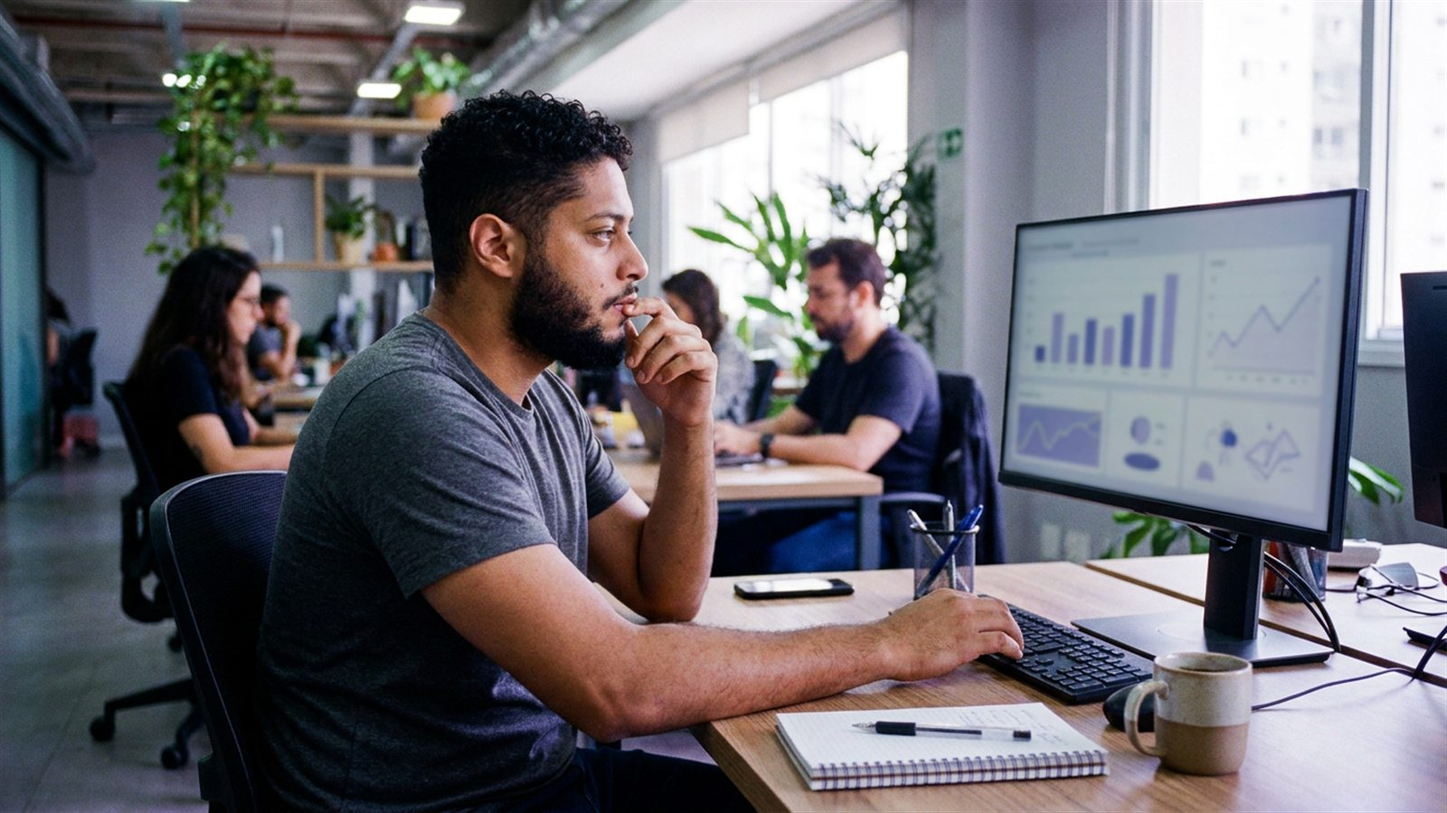
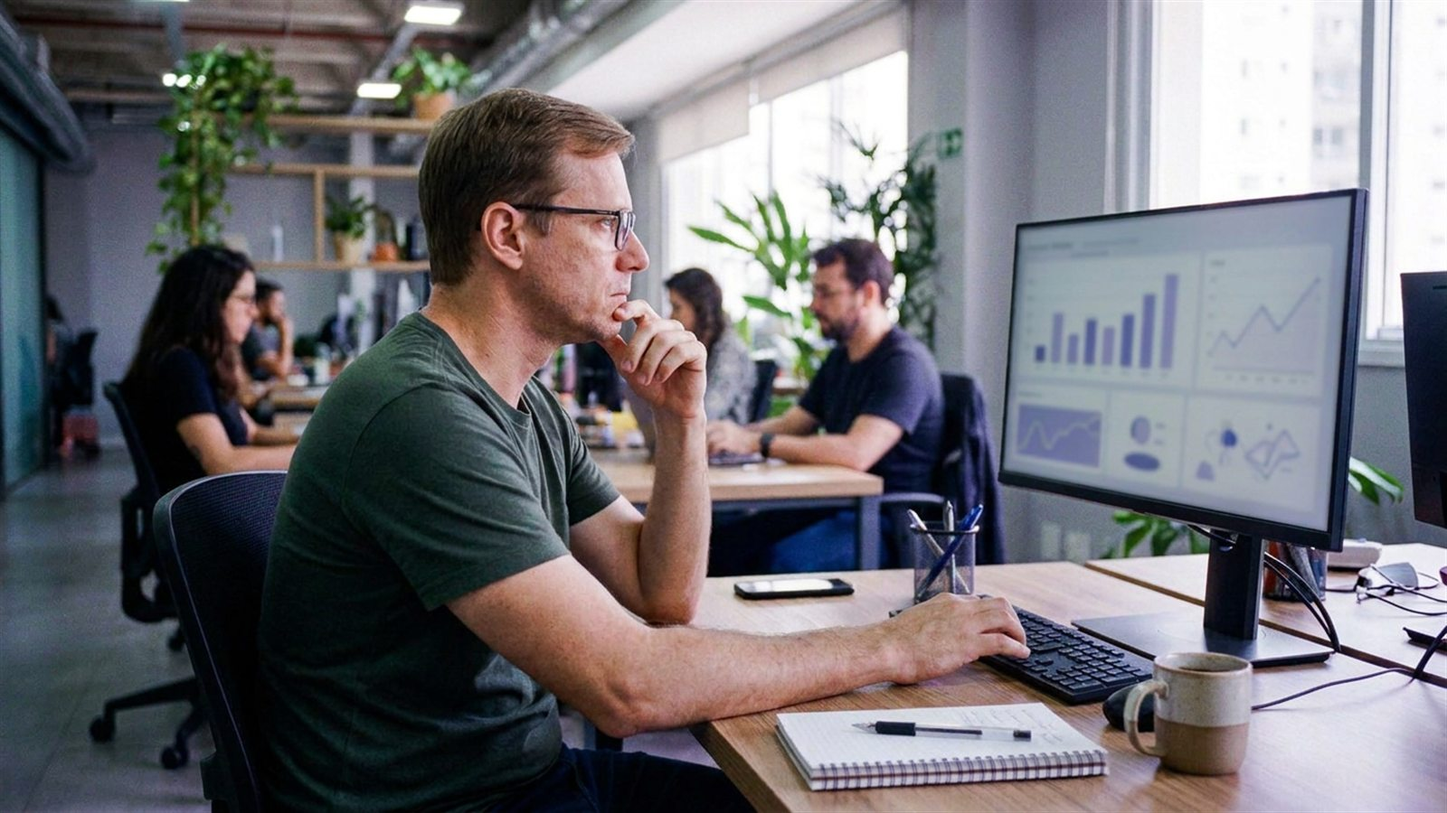
Capas e fotos de cena com pessoas ficticias; Membership: +50 cursos em uma unica assinatura

diff --git a/membership.html b/membership.html
@@ -65,7 +65,7 @@
     <div class="m-photo" role="img" aria-label="Aluna da PM3 estudando com notebook em um coworking"><span class="tag">Estude no seu ritmo</span></div>
     <div class="m-tile">
       <span class="ic ic-tl" style="left:0;top:0;--c:#000;--r:40px" aria-hidden="true"></span>
-      <div class="big">10<small>formações + 40 sprints<br>em uma assinatura</small></div>
+      <div class="big">+50<small>cursos em uma<br>única assinatura</small></div>
       <p>Seis áreas, do primeiro cargo em produto à liderança, com IA aplicada.</p>
     </div>
   </div>
@@ -105,16 +105,16 @@
       <button class="chip" aria-pressed="false" data-f="design">Design <small>1</small></button>
     </div>
     <div class="f-track" id="fgrid" role="region" aria-label="Formações" tabindex="0">
-      <a class="f-card feature" data-a="produto" href="formacao-product-manager.html"><div class="f-vis" style="background-image:url('assets/capas/product-manager-800.jpg?v=2')" aria-hidden="true"></div><div class="f-body"><div class="top"><span class="tag tag-area">Gestão de produtos</span><span class="tag tag-yellow">Comece aqui</span></div><h3>Product Manager</h3><p>Para quem está entrando em produto ou quer consolidar estratégia, discovery e execução.</p><ul class="f-facts"><li><svg viewBox="0 0 16 16" fill="none" stroke="currentColor" stroke-width="1.6" aria-hidden="true"><circle cx="8" cy="8" r="6.2"/><path d="M8 4.6V8l2.4 1.6"/></svg>37h</li><li><svg viewBox="0 0 16 16" fill="none" stroke="currentColor" stroke-width="1.6" aria-hidden="true"><path d="M8 1.8 14.2 5 8 8.2 1.8 5z"/><path d="m1.8 8 6.2 3.2L14.2 8"/><path d="m1.8 11 6.2 3.2 6.2-3.2"/></svg>6 módulos</li><li><svg viewBox="0 0 16 16" fill="none" stroke="currentColor" stroke-width="1.6" aria-hidden="true"><circle cx="8" cy="6.2" r="4.2"/><path d="m5.6 9.6-1.1 4.8L8 12.8l3.5 1.6-1.1-4.8"/></svg>Certificado</li></ul><div class="meta"><span>Ver formação</span><span class="go"><svg viewBox="0 0 16 16" fill="none" stroke="currentColor" stroke-width="2"><path d="M2 8h11M9 4l4 4-4 4"/></svg></span></div></div></a>
-      <a class="f-card" data-a="produto" href="#"><div class="f-vis" style="background-image:url('assets/capas/product-discovery-800.jpg?v=2')" aria-hidden="true"></div><div class="f-body"><div class="top"><span class="tag tag-area">Gestão de produtos</span></div><h3>Product Discovery</h3><p>Validar hipóteses e reduzir o risco antes de construir.</p><ul class="f-facts"><li><svg viewBox="0 0 16 16" fill="none" stroke="currentColor" stroke-width="1.6" aria-hidden="true"><circle cx="8" cy="8" r="6.2"/><path d="M8 4.6V8l2.4 1.6"/></svg>26h</li><li><svg viewBox="0 0 16 16" fill="none" stroke="currentColor" stroke-width="1.6" aria-hidden="true"><path d="M8 1.8 14.2 5 8 8.2 1.8 5z"/><path d="m1.8 8 6.2 3.2L14.2 8"/><path d="m1.8 11 6.2 3.2 6.2-3.2"/></svg>5 módulos</li><li><svg viewBox="0 0 16 16" fill="none" stroke="currentColor" stroke-width="1.6" aria-hidden="true"><circle cx="8" cy="6.2" r="4.2"/><path d="m5.6 9.6-1.1 4.8L8 12.8l3.5 1.6-1.1-4.8"/></svg>Certificado</li></ul><div class="meta"><span>Ver formação</span><span class="go"><svg viewBox="0 0 16 16" fill="none" stroke="currentColor" stroke-width="2"><path d="M2 8h11M9 4l4 4-4 4"/></svg></span></div></div></a>
-      <a class="f-card" data-a="produto" href="#"><div class="f-vis" style="background-image:url('assets/capas/product-leadership-800.jpg?v=2')" aria-hidden="true"></div><div class="f-body"><div class="top"><span class="tag tag-area">Liderança</span></div><h3>Product Leadership</h3><p>Para PMs sêniores que assumem pessoas e decisões de alto nível.</p><ul class="f-facts"><li><svg viewBox="0 0 16 16" fill="none" stroke="currentColor" stroke-width="1.6" aria-hidden="true"><circle cx="8" cy="8" r="6.2"/><path d="M8 4.6V8l2.4 1.6"/></svg>29h</li><li><svg viewBox="0 0 16 16" fill="none" stroke="currentColor" stroke-width="1.6" aria-hidden="true"><path d="M8 1.8 14.2 5 8 8.2 1.8 5z"/><path d="m1.8 8 6.2 3.2L14.2 8"/><path d="m1.8 11 6.2 3.2 6.2-3.2"/></svg>5 módulos</li><li><svg viewBox="0 0 16 16" fill="none" stroke="currentColor" stroke-width="1.6" aria-hidden="true"><circle cx="8" cy="6.2" r="4.2"/><path d="m5.6 9.6-1.1 4.8L8 12.8l3.5 1.6-1.1-4.8"/></svg>Certificado</li></ul><div class="meta"><span>Ver formação</span><span class="go"><svg viewBox="0 0 16 16" fill="none" stroke="currentColor" stroke-width="2"><path d="M2 8h11M9 4l4 4-4 4"/></svg></span></div></div></a>
-      <a class="f-card" data-a="ia" href="#"><div class="f-vis" style="background-image:url('assets/capas/ai-product-builder-800.jpg?v=2')" aria-hidden="true"></div><div class="f-body"><div class="top"><span class="tag tag-area">IA</span></div><h3>AI Product Builder</h3><p>Sair de usuário de IA para criador: automações, agentes e aplicações na prática.</p><ul class="f-facts"><li><svg viewBox="0 0 16 16" fill="none" stroke="currentColor" stroke-width="1.6" aria-hidden="true"><path d="M8 1.8 14.2 5 8 8.2 1.8 5z"/><path d="m1.8 8 6.2 3.2L14.2 8"/><path d="m1.8 11 6.2 3.2 6.2-3.2"/></svg>6 módulos</li><li><svg viewBox="0 0 16 16" fill="none" stroke="currentColor" stroke-width="1.6" aria-hidden="true"><circle cx="8" cy="6.2" r="4.2"/><path d="m5.6 9.6-1.1 4.8L8 12.8l3.5 1.6-1.1-4.8"/></svg>Certificado</li></ul><div class="meta"><span>Ver formação</span><span class="go"><svg viewBox="0 0 16 16" fill="none" stroke="currentColor" stroke-width="2"><path d="M2 8h11M9 4l4 4-4 4"/></svg></span></div></div></a>
-      <a class="f-card" data-a="ia" href="#"><div class="f-vis" style="background-image:url('assets/capas/ai-product-specialist-800.jpg?v=2')" aria-hidden="true"></div><div class="f-body"><div class="top"><span class="tag tag-area">IA</span></div><h3>AI Product Specialist</h3><p>Aplicar IA de forma estratégica na construção e priorização de produto.</p><ul class="f-facts"><li><svg viewBox="0 0 16 16" fill="none" stroke="currentColor" stroke-width="1.6" aria-hidden="true"><circle cx="8" cy="8" r="6.2"/><path d="M8 4.6V8l2.4 1.6"/></svg>40h</li><li><svg viewBox="0 0 16 16" fill="none" stroke="currentColor" stroke-width="1.6" aria-hidden="true"><path d="M8 1.8 14.2 5 8 8.2 1.8 5z"/><path d="m1.8 8 6.2 3.2L14.2 8"/><path d="m1.8 11 6.2 3.2 6.2-3.2"/></svg>5 módulos</li><li><svg viewBox="0 0 16 16" fill="none" stroke="currentColor" stroke-width="1.6" aria-hidden="true"><circle cx="8" cy="6.2" r="4.2"/><path d="m5.6 9.6-1.1 4.8L8 12.8l3.5 1.6-1.1-4.8"/></svg>Certificado</li></ul><div class="meta"><span>Ver formação</span><span class="go"><svg viewBox="0 0 16 16" fill="none" stroke="currentColor" stroke-width="2"><path d="M2 8h11M9 4l4 4-4 4"/></svg></span></div></div></a>
-      <a class="f-card" data-a="dados" href="#"><div class="f-vis" style="background-image:url('assets/capas/product-analytics-800.jpg?v=2')" aria-hidden="true"></div><div class="f-body"><div class="top"><span class="tag tag-area">Dados</span></div><h3>Product Analytics</h3><p>Métricas certas, experimentos e dados para decidir com segurança.</p><ul class="f-facts"><li><svg viewBox="0 0 16 16" fill="none" stroke="currentColor" stroke-width="1.6" aria-hidden="true"><circle cx="8" cy="8" r="6.2"/><path d="M8 4.6V8l2.4 1.6"/></svg>21h</li><li><svg viewBox="0 0 16 16" fill="none" stroke="currentColor" stroke-width="1.6" aria-hidden="true"><path d="M8 1.8 14.2 5 8 8.2 1.8 5z"/><path d="m1.8 8 6.2 3.2L14.2 8"/><path d="m1.8 11 6.2 3.2 6.2-3.2"/></svg>6 módulos</li><li><svg viewBox="0 0 16 16" fill="none" stroke="currentColor" stroke-width="1.6" aria-hidden="true"><circle cx="8" cy="6.2" r="4.2"/><path d="m5.6 9.6-1.1 4.8L8 12.8l3.5 1.6-1.1-4.8"/></svg>Certificado</li></ul><div class="meta"><span>Ver formação</span><span class="go"><svg viewBox="0 0 16 16" fill="none" stroke="currentColor" stroke-width="2"><path d="M2 8h11M9 4l4 4-4 4"/></svg></span></div></div></a>
-      <a class="f-card" data-a="dados" href="#"><div class="f-vis" style="background-image:url('assets/capas/analista-de-dados-800.jpg?v=2')" aria-hidden="true"></div><div class="f-body"><div class="top"><span class="tag tag-area">Dados</span></div><h3>Analista de Dados</h3><p>Para quem quer migrar para dados ou estruturar a base técnica.</p><ul class="f-facts"><li><svg viewBox="0 0 16 16" fill="none" stroke="currentColor" stroke-width="1.6" aria-hidden="true"><circle cx="8" cy="8" r="6.2"/><path d="M8 4.6V8l2.4 1.6"/></svg>74h</li><li><svg viewBox="0 0 16 16" fill="none" stroke="currentColor" stroke-width="1.6" aria-hidden="true"><path d="M8 1.8 14.2 5 8 8.2 1.8 5z"/><path d="m1.8 8 6.2 3.2L14.2 8"/><path d="m1.8 11 6.2 3.2 6.2-3.2"/></svg>6 módulos</li><li><svg viewBox="0 0 16 16" fill="none" stroke="currentColor" stroke-width="1.6" aria-hidden="true"><circle cx="8" cy="6.2" r="4.2"/><path d="m5.6 9.6-1.1 4.8L8 12.8l3.5 1.6-1.1-4.8"/></svg>Certificado</li></ul><div class="meta"><span>Ver formação</span><span class="go"><svg viewBox="0 0 16 16" fill="none" stroke="currentColor" stroke-width="2"><path d="M2 8h11M9 4l4 4-4 4"/></svg></span></div></div></a>
-      <a class="f-card" data-a="marketing" href="#"><div class="f-vis" style="background-image:url('assets/capas/product-growth-800.jpg?v=2')" aria-hidden="true"></div><div class="f-body"><div class="top"><span class="tag tag-area">Marketing</span></div><h3>Product Growth</h3><p>As alavancas de aquisição, ativação, retenção e monetização.</p><ul class="f-facts"><li><svg viewBox="0 0 16 16" fill="none" stroke="currentColor" stroke-width="1.6" aria-hidden="true"><circle cx="8" cy="8" r="6.2"/><path d="M8 4.6V8l2.4 1.6"/></svg>44h</li><li><svg viewBox="0 0 16 16" fill="none" stroke="currentColor" stroke-width="1.6" aria-hidden="true"><path d="M8 1.8 14.2 5 8 8.2 1.8 5z"/><path d="m1.8 8 6.2 3.2L14.2 8"/><path d="m1.8 11 6.2 3.2 6.2-3.2"/></svg>7 módulos</li><li><svg viewBox="0 0 16 16" fill="none" stroke="currentColor" stroke-width="1.6" aria-hidden="true"><circle cx="8" cy="6.2" r="4.2"/><path d="m5.6 9.6-1.1 4.8L8 12.8l3.5 1.6-1.1-4.8"/></svg>Certificado</li></ul><div class="meta"><span>Ver formação</span><span class="go"><svg viewBox="0 0 16 16" fill="none" stroke="currentColor" stroke-width="2"><path d="M2 8h11M9 4l4 4-4 4"/></svg></span></div></div></a>
-      <a class="f-card" data-a="marketing" href="#"><div class="f-vis" style="background-image:url('assets/capas/product-marketing-800.jpg?v=2')" aria-hidden="true"></div><div class="f-body"><div class="top"><span class="tag tag-area">Marketing</span></div><h3>Product Marketing</h3><p>Posicionamento e go-to-market na interface entre produto e marketing.</p><ul class="f-facts"><li><svg viewBox="0 0 16 16" fill="none" stroke="currentColor" stroke-width="1.6" aria-hidden="true"><circle cx="8" cy="8" r="6.2"/><path d="M8 4.6V8l2.4 1.6"/></svg>36h</li><li><svg viewBox="0 0 16 16" fill="none" stroke="currentColor" stroke-width="1.6" aria-hidden="true"><path d="M8 1.8 14.2 5 8 8.2 1.8 5z"/><path d="m1.8 8 6.2 3.2L14.2 8"/><path d="m1.8 11 6.2 3.2 6.2-3.2"/></svg>5 módulos</li><li><svg viewBox="0 0 16 16" fill="none" stroke="currentColor" stroke-width="1.6" aria-hidden="true"><circle cx="8" cy="6.2" r="4.2"/><path d="m5.6 9.6-1.1 4.8L8 12.8l3.5 1.6-1.1-4.8"/></svg>Certificado</li></ul><div class="meta"><span>Ver formação</span><span class="go"><svg viewBox="0 0 16 16" fill="none" stroke="currentColor" stroke-width="2"><path d="M2 8h11M9 4l4 4-4 4"/></svg></span></div></div></a>
-      <a class="f-card" data-a="design" href="#"><div class="f-vis" style="background-image:url('assets/capas/product-design-800.jpg?v=2')" aria-hidden="true"></div><div class="f-body"><div class="top"><span class="tag tag-area">Design</span></div><h3>Product Design</h3><p>Da pesquisa à interface, para designers e profissionais de produto.</p><ul class="f-facts"><li><svg viewBox="0 0 16 16" fill="none" stroke="currentColor" stroke-width="1.6" aria-hidden="true"><circle cx="8" cy="8" r="6.2"/><path d="M8 4.6V8l2.4 1.6"/></svg>79h</li><li><svg viewBox="0 0 16 16" fill="none" stroke="currentColor" stroke-width="1.6" aria-hidden="true"><path d="M8 1.8 14.2 5 8 8.2 1.8 5z"/><path d="m1.8 8 6.2 3.2L14.2 8"/><path d="m1.8 11 6.2 3.2 6.2-3.2"/></svg>6 módulos</li><li><svg viewBox="0 0 16 16" fill="none" stroke="currentColor" stroke-width="1.6" aria-hidden="true"><circle cx="8" cy="6.2" r="4.2"/><path d="m5.6 9.6-1.1 4.8L8 12.8l3.5 1.6-1.1-4.8"/></svg>Certificado</li></ul><div class="meta"><span>Ver formação</span><span class="go"><svg viewBox="0 0 16 16" fill="none" stroke="currentColor" stroke-width="2"><path d="M2 8h11M9 4l4 4-4 4"/></svg></span></div></div></a>
+      <a class="f-card feature" data-a="produto" href="formacao-product-manager.html"><div class="f-vis" style="background-image:url('assets/capas/product-manager-800.jpg?v=3')" aria-hidden="true"></div><div class="f-body"><div class="top"><span class="tag tag-area">Gestão de produtos</span><span class="tag tag-yellow">Comece aqui</span></div><h3>Product Manager</h3><p>Para quem está entrando em produto ou quer consolidar estratégia, discovery e execução.</p><ul class="f-facts"><li><svg viewBox="0 0 16 16" fill="none" stroke="currentColor" stroke-width="1.6" aria-hidden="true"><circle cx="8" cy="8" r="6.2"/><path d="M8 4.6V8l2.4 1.6"/></svg>37h</li><li><svg viewBox="0 0 16 16" fill="none" stroke="currentColor" stroke-width="1.6" aria-hidden="true"><path d="M8 1.8 14.2 5 8 8.2 1.8 5z"/><path d="m1.8 8 6.2 3.2L14.2 8"/><path d="m1.8 11 6.2 3.2 6.2-3.2"/></svg>6 módulos</li><li><svg viewBox="0 0 16 16" fill="none" stroke="currentColor" stroke-width="1.6" aria-hidden="true"><circle cx="8" cy="6.2" r="4.2"/><path d="m5.6 9.6-1.1 4.8L8 12.8l3.5 1.6-1.1-4.8"/></svg>Certificado</li></ul><div class="meta"><span>Ver formação</span><span class="go"><svg viewBox="0 0 16 16" fill="none" stroke="currentColor" stroke-width="2"><path d="M2 8h11M9 4l4 4-4 4"/></svg></span></div></div></a>
+      <a class="f-card" data-a="produto" href="#"><div class="f-vis" style="background-image:url('assets/capas/product-discovery-800.jpg?v=3')" aria-hidden="true"></div><div class="f-body"><div class="top"><span class="tag tag-area">Gestão de produtos</span></div><h3>Product Discovery</h3><p>Validar hipóteses e reduzir o risco antes de construir.</p><ul class="f-facts"><li><svg viewBox="0 0 16 16" fill="none" stroke="currentColor" stroke-width="1.6" aria-hidden="true"><circle cx="8" cy="8" r="6.2"/><path d="M8 4.6V8l2.4 1.6"/></svg>26h</li><li><svg viewBox="0 0 16 16" fill="none" stroke="currentColor" stroke-width="1.6" aria-hidden="true"><path d="M8 1.8 14.2 5 8 8.2 1.8 5z"/><path d="m1.8 8 6.2 3.2L14.2 8"/><path d="m1.8 11 6.2 3.2 6.2-3.2"/></svg>5 módulos</li><li><svg viewBox="0 0 16 16" fill="none" stroke="currentColor" stroke-width="1.6" aria-hidden="true"><circle cx="8" cy="6.2" r="4.2"/><path d="m5.6 9.6-1.1 4.8L8 12.8l3.5 1.6-1.1-4.8"/></svg>Certificado</li></ul><div class="meta"><span>Ver formação</span><span class="go"><svg viewBox="0 0 16 16" fill="none" stroke="currentColor" stroke-width="2"><path d="M2 8h11M9 4l4 4-4 4"/></svg></span></div></div></a>
+      <a class="f-card" data-a="produto" href="#"><div class="f-vis" style="background-image:url('assets/capas/product-leadership-800.jpg?v=3')" aria-hidden="true"></div><div class="f-body"><div class="top"><span class="tag tag-area">Liderança</span></div><h3>Product Leadership</h3><p>Para PMs sêniores que assumem pessoas e decisões de alto nível.</p><ul class="f-facts"><li><svg viewBox="0 0 16 16" fill="none" stroke="currentColor" stroke-width="1.6" aria-hidden="true"><circle cx="8" cy="8" r="6.2"/><path d="M8 4.6V8l2.4 1.6"/></svg>29h</li><li><svg viewBox="0 0 16 16" fill="none" stroke="currentColor" stroke-width="1.6" aria-hidden="true"><path d="M8 1.8 14.2 5 8 8.2 1.8 5z"/><path d="m1.8 8 6.2 3.2L14.2 8"/><path d="m1.8 11 6.2 3.2 6.2-3.2"/></svg>5 módulos</li><li><svg viewBox="0 0 16 16" fill="none" stroke="currentColor" stroke-width="1.6" aria-hidden="true"><circle cx="8" cy="6.2" r="4.2"/><path d="m5.6 9.6-1.1 4.8L8 12.8l3.5 1.6-1.1-4.8"/></svg>Certificado</li></ul><div class="meta"><span>Ver formação</span><span class="go"><svg viewBox="0 0 16 16" fill="none" stroke="currentColor" stroke-width="2"><path d="M2 8h11M9 4l4 4-4 4"/></svg></span></div></div></a>
+      <a class="f-card" data-a="ia" href="#"><div class="f-vis" style="background-image:url('assets/capas/ai-product-builder-800.jpg?v=3')" aria-hidden="true"></div><div class="f-body"><div class="top"><span class="tag tag-area">IA</span></div><h3>AI Product Builder</h3><p>Sair de usuário de IA para criador: automações, agentes e aplicações na prática.</p><ul class="f-facts"><li><svg viewBox="0 0 16 16" fill="none" stroke="currentColor" stroke-width="1.6" aria-hidden="true"><path d="M8 1.8 14.2 5 8 8.2 1.8 5z"/><path d="m1.8 8 6.2 3.2L14.2 8"/><path d="m1.8 11 6.2 3.2 6.2-3.2"/></svg>6 módulos</li><li><svg viewBox="0 0 16 16" fill="none" stroke="currentColor" stroke-width="1.6" aria-hidden="true"><circle cx="8" cy="6.2" r="4.2"/><path d="m5.6 9.6-1.1 4.8L8 12.8l3.5 1.6-1.1-4.8"/></svg>Certificado</li></ul><div class="meta"><span>Ver formação</span><span class="go"><svg viewBox="0 0 16 16" fill="none" stroke="currentColor" stroke-width="2"><path d="M2 8h11M9 4l4 4-4 4"/></svg></span></div></div></a>
+      <a class="f-card" data-a="ia" href="#"><div class="f-vis" style="background-image:url('assets/capas/ai-product-specialist-800.jpg?v=3')" aria-hidden="true"></div><div class="f-body"><div class="top"><span class="tag tag-area">IA</span></div><h3>AI Product Specialist</h3><p>Aplicar IA de forma estratégica na construção e priorização de produto.</p><ul class="f-facts"><li><svg viewBox="0 0 16 16" fill="none" stroke="currentColor" stroke-width="1.6" aria-hidden="true"><circle cx="8" cy="8" r="6.2"/><path d="M8 4.6V8l2.4 1.6"/></svg>40h</li><li><svg viewBox="0 0 16 16" fill="none" stroke="currentColor" stroke-width="1.6" aria-hidden="true"><path d="M8 1.8 14.2 5 8 8.2 1.8 5z"/><path d="m1.8 8 6.2 3.2L14.2 8"/><path d="m1.8 11 6.2 3.2 6.2-3.2"/></svg>5 módulos</li><li><svg viewBox="0 0 16 16" fill="none" stroke="currentColor" stroke-width="1.6" aria-hidden="true"><circle cx="8" cy="6.2" r="4.2"/><path d="m5.6 9.6-1.1 4.8L8 12.8l3.5 1.6-1.1-4.8"/></svg>Certificado</li></ul><div class="meta"><span>Ver formação</span><span class="go"><svg viewBox="0 0 16 16" fill="none" stroke="currentColor" stroke-width="2"><path d="M2 8h11M9 4l4 4-4 4"/></svg></span></div></div></a>
+      <a class="f-card" data-a="dados" href="#"><div class="f-vis" style="background-image:url('assets/capas/product-analytics-800.jpg?v=3')" aria-hidden="true"></div><div class="f-body"><div class="top"><span class="tag tag-area">Dados</span></div><h3>Product Analytics</h3><p>Métricas certas, experimentos e dados para decidir com segurança.</p><ul class="f-facts"><li><svg viewBox="0 0 16 16" fill="none" stroke="currentColor" stroke-width="1.6" aria-hidden="true"><circle cx="8" cy="8" r="6.2"/><path d="M8 4.6V8l2.4 1.6"/></svg>21h</li><li><svg viewBox="0 0 16 16" fill="none" stroke="currentColor" stroke-width="1.6" aria-hidden="true"><path d="M8 1.8 14.2 5 8 8.2 1.8 5z"/><path d="m1.8 8 6.2 3.2L14.2 8"/><path d="m1.8 11 6.2 3.2 6.2-3.2"/></svg>6 módulos</li><li><svg viewBox="0 0 16 16" fill="none" stroke="currentColor" stroke-width="1.6" aria-hidden="true"><circle cx="8" cy="6.2" r="4.2"/><path d="m5.6 9.6-1.1 4.8L8 12.8l3.5 1.6-1.1-4.8"/></svg>Certificado</li></ul><div class="meta"><span>Ver formação</span><span class="go"><svg viewBox="0 0 16 16" fill="none" stroke="currentColor" stroke-width="2"><path d="M2 8h11M9 4l4 4-4 4"/></svg></span></div></div></a>
+      <a class="f-card" data-a="dados" href="#"><div class="f-vis" style="background-image:url('assets/capas/analista-de-dados-800.jpg?v=3')" aria-hidden="true"></div><div class="f-body"><div class="top"><span class="tag tag-area">Dados</span></div><h3>Analista de Dados</h3><p>Para quem quer migrar para dados ou estruturar a base técnica.</p><ul class="f-facts"><li><svg viewBox="0 0 16 16" fill="none" stroke="currentColor" stroke-width="1.6" aria-hidden="true"><circle cx="8" cy="8" r="6.2"/><path d="M8 4.6V8l2.4 1.6"/></svg>74h</li><li><svg viewBox="0 0 16 16" fill="none" stroke="currentColor" stroke-width="1.6" aria-hidden="true"><path d="M8 1.8 14.2 5 8 8.2 1.8 5z"/><path d="m1.8 8 6.2 3.2L14.2 8"/><path d="m1.8 11 6.2 3.2 6.2-3.2"/></svg>6 módulos</li><li><svg viewBox="0 0 16 16" fill="none" stroke="currentColor" stroke-width="1.6" aria-hidden="true"><circle cx="8" cy="6.2" r="4.2"/><path d="m5.6 9.6-1.1 4.8L8 12.8l3.5 1.6-1.1-4.8"/></svg>Certificado</li></ul><div class="meta"><span>Ver formação</span><span class="go"><svg viewBox="0 0 16 16" fill="none" stroke="currentColor" stroke-width="2"><path d="M2 8h11M9 4l4 4-4 4"/></svg></span></div></div></a>
+      <a class="f-card" data-a="marketing" href="#"><div class="f-vis" style="background-image:url('assets/capas/product-growth-800.jpg?v=3')" aria-hidden="true"></div><div class="f-body"><div class="top"><span class="tag tag-area">Marketing</span></div><h3>Product Growth</h3><p>As alavancas de aquisição, ativação, retenção e monetização.</p><ul class="f-facts"><li><svg viewBox="0 0 16 16" fill="none" stroke="currentColor" stroke-width="1.6" aria-hidden="true"><circle cx="8" cy="8" r="6.2"/><path d="M8 4.6V8l2.4 1.6"/></svg>44h</li><li><svg viewBox="0 0 16 16" fill="none" stroke="currentColor" stroke-width="1.6" aria-hidden="true"><path d="M8 1.8 14.2 5 8 8.2 1.8 5z"/><path d="m1.8 8 6.2 3.2L14.2 8"/><path d="m1.8 11 6.2 3.2 6.2-3.2"/></svg>7 módulos</li><li><svg viewBox="0 0 16 16" fill="none" stroke="currentColor" stroke-width="1.6" aria-hidden="true"><circle cx="8" cy="6.2" r="4.2"/><path d="m5.6 9.6-1.1 4.8L8 12.8l3.5 1.6-1.1-4.8"/></svg>Certificado</li></ul><div class="meta"><span>Ver formação</span><span class="go"><svg viewBox="0 0 16 16" fill="none" stroke="currentColor" stroke-width="2"><path d="M2 8h11M9 4l4 4-4 4"/></svg></span></div></div></a>
+      <a class="f-card" data-a="marketing" href="#"><div class="f-vis" style="background-image:url('assets/capas/product-marketing-800.jpg?v=3')" aria-hidden="true"></div><div class="f-body"><div class="top"><span class="tag tag-area">Marketing</span></div><h3>Product Marketing</h3><p>Posicionamento e go-to-market na interface entre produto e marketing.</p><ul class="f-facts"><li><svg viewBox="0 0 16 16" fill="none" stroke="currentColor" stroke-width="1.6" aria-hidden="true"><circle cx="8" cy="8" r="6.2"/><path d="M8 4.6V8l2.4 1.6"/></svg>36h</li><li><svg viewBox="0 0 16 16" fill="none" stroke="currentColor" stroke-width="1.6" aria-hidden="true"><path d="M8 1.8 14.2 5 8 8.2 1.8 5z"/><path d="m1.8 8 6.2 3.2L14.2 8"/><path d="m1.8 11 6.2 3.2 6.2-3.2"/></svg>5 módulos</li><li><svg viewBox="0 0 16 16" fill="none" stroke="currentColor" stroke-width="1.6" aria-hidden="true"><circle cx="8" cy="6.2" r="4.2"/><path d="m5.6 9.6-1.1 4.8L8 12.8l3.5 1.6-1.1-4.8"/></svg>Certificado</li></ul><div class="meta"><span>Ver formação</span><span class="go"><svg viewBox="0 0 16 16" fill="none" stroke="currentColor" stroke-width="2"><path d="M2 8h11M9 4l4 4-4 4"/></svg></span></div></div></a>
+      <a class="f-card" data-a="design" href="#"><div class="f-vis" style="background-image:url('assets/capas/product-design-800.jpg?v=3')" aria-hidden="true"></div><div class="f-body"><div class="top"><span class="tag tag-area">Design</span></div><h3>Product Design</h3><p>Da pesquisa à interface, para designers e profissionais de produto.</p><ul class="f-facts"><li><svg viewBox="0 0 16 16" fill="none" stroke="currentColor" stroke-width="1.6" aria-hidden="true"><circle cx="8" cy="8" r="6.2"/><path d="M8 4.6V8l2.4 1.6"/></svg>79h</li><li><svg viewBox="0 0 16 16" fill="none" stroke="currentColor" stroke-width="1.6" aria-hidden="true"><path d="M8 1.8 14.2 5 8 8.2 1.8 5z"/><path d="m1.8 8 6.2 3.2L14.2 8"/><path d="m1.8 11 6.2 3.2 6.2-3.2"/></svg>6 módulos</li><li><svg viewBox="0 0 16 16" fill="none" stroke="currentColor" stroke-width="1.6" aria-hidden="true"><circle cx="8" cy="6.2" r="4.2"/><path d="m5.6 9.6-1.1 4.8L8 12.8l3.5 1.6-1.1-4.8"/></svg>Certificado</li></ul><div class="meta"><span>Ver formação</span><span class="go"><svg viewBox="0 0 16 16" fill="none" stroke="currentColor" stroke-width="2"><path d="M2 8h11M9 4l4 4-4 4"/></svg></span></div></div></a>
     </div>
     <div class="f-nav"><div class="f-btns"><button type="button" data-fc="ant" aria-label="Formações anteriores"><svg viewBox="0 0 16 16" fill="none" stroke="currentColor" stroke-width="1.8" aria-hidden="true"><path d="M14 8H3M7 4 3 8l4 4"/></svg></button><button type="button" data-fc="prox" aria-label="Próximas formações"><svg viewBox="0 0 16 16" fill="none" stroke="currentColor" stroke-width="1.8" aria-hidden="true"><path d="M2 8h11M9 4l4 4-4 4"/></svg></button></div></div>
 
@@ -148,23 +148,23 @@
     </div>
     <div class="trilhas-grid">
       <div class="acc" data-nota="Trilhas montadas a partir do catálogo (coluna 'Complementa' dos sprints). Dão ao visitante um caminho e respondem à pergunta 'por onde começo?'.">
-        <div class="acc-item open" data-img="assets/capas/product-manager-1600.jpg?v=2"><button type="button" aria-expanded="true"><span class="nn">01</span><span class="tt">Entrar em produto</span><span class="pl" aria-hidden="true"></span></button>
+        <div class="acc-item open" data-img="assets/capas/product-manager-1600.jpg?v=3"><button type="button" aria-expanded="true"><span class="nn">01</span><span class="tt">Entrar em produto</span><span class="pl" aria-hidden="true"></span></button>
           <div class="acc-body"><div><div class="in"><p>Para quem vem de outra área ou está no primeiro cargo. Base sólida de estratégia, discovery e execução.</p>
             <ol class="path" style="--n:3"><li><span class="dot">1</span><em>Sprint</em><b>Fundamentos de Gestão de Produtos</b></li><li class="k"><span class="dot">2</span><em>Formação</em><b>Product Manager</b></li><li><span class="dot">3</span><em>Formação</em><b>Product Discovery</b></li></ol></div></div></div></div>
-        <div class="acc-item" data-img="assets/capas/ai-product-builder-1600.jpg?v=2"><button type="button" aria-expanded="false"><span class="nn">02</span><span class="tt">Construir com IA</span><span class="pl" aria-hidden="true"></span></button>
+        <div class="acc-item" data-img="assets/capas/ai-product-builder-1600.jpg?v=3"><button type="button" aria-expanded="false"><span class="nn">02</span><span class="tt">Construir com IA</span><span class="pl" aria-hidden="true"></span></button>
           <div class="acc-body"><div><div class="in"><p>Da estratégia à prática: decidir onde a IA gera valor e construir agentes e automações na prática.</p>
             <ol class="path" style="--n:2"><li class="k"><span class="dot">1</span><em>Formação</em><b>AI Product Specialist</b></li><li class="k"><span class="dot">2</span><em>Formação</em><b>AI Product Builder</b></li></ol></div></div></div></div>
-        <div class="acc-item" data-img="assets/capas/product-analytics-1600.jpg?v=2"><button type="button" aria-expanded="false"><span class="nn">03</span><span class="tt">Decidir com dados</span><span class="pl" aria-hidden="true"></span></button>
+        <div class="acc-item" data-img="assets/capas/product-analytics-1600.jpg?v=3"><button type="button" aria-expanded="false"><span class="nn">03</span><span class="tt">Decidir com dados</span><span class="pl" aria-hidden="true"></span></button>
           <div class="acc-body"><div><div class="in"><p>Métricas, experimentos e análise para sustentar decisões de produto com evidência.</p>
             <ol class="path" style="--n:3"><li><span class="dot">1</span><em>Sprint</em><b>SQL para análise de dados</b></li><li class="k"><span class="dot">2</span><em>Formação</em><b>Product Analytics</b></li><li><span class="dot">3</span><em>Formação</em><b>Analista de Dados</b></li></ol></div></div></div></div>
-        <div class="acc-item" data-img="assets/capas/product-growth-1600.jpg?v=2"><button type="button" aria-expanded="false"><span class="nn">04</span><span class="tt">Fazer o produto crescer</span><span class="pl" aria-hidden="true"></span></button>
+        <div class="acc-item" data-img="assets/capas/product-growth-1600.jpg?v=3"><button type="button" aria-expanded="false"><span class="nn">04</span><span class="tt">Fazer o produto crescer</span><span class="pl" aria-hidden="true"></span></button>
           <div class="acc-body"><div><div class="in"><p>Aquisição, retenção, posicionamento e lançamento: a ponte entre produto e mercado.</p>
             <ol class="path" style="--n:3"><li class="k"><span class="dot">1</span><em>Formação</em><b>Product Growth</b></li><li><span class="dot">2</span><em>Formação</em><b>Product Marketing</b></li><li><span class="dot">3</span><em>Sprint</em><b>Go-to-market</b></li></ol></div></div></div></div>
-        <div class="acc-item" data-img="assets/capas/product-leadership-1600.jpg?v=2"><button type="button" aria-expanded="false"><span class="nn">05</span><span class="tt">Liderar pessoas</span><span class="pl" aria-hidden="true"></span></button>
+        <div class="acc-item" data-img="assets/capas/product-leadership-1600.jpg?v=3"><button type="button" aria-expanded="false"><span class="nn">05</span><span class="tt">Liderar pessoas</span><span class="pl" aria-hidden="true"></span></button>
           <div class="acc-body"><div><div class="in"><p>Para o salto de PM sênior para Lead, Head ou Director.</p>
             <ol class="path" style="--n:3"><li class="k"><span class="dot">1</span><em>Formação</em><b>Product Leadership</b></li><li><span class="dot">2</span><em>Sprint</em><b>Liderança na área de produto</b></li><li><span class="dot">3</span><em>Sprint</em><b>Como dar feedback construtivo</b></li></ol></div></div></div></div>
       </div>
-      <div class="trilhas-art" aria-hidden="true"><span class="ph on" style="background-image:url('assets/capas/product-manager-1600.jpg?v=2')"></span><span class="ph"></span><div class="lbl"><b>Trilha <i id="trN">01</i></b><span id="trT">Entrar em produto</span></div></div>
+      <div class="trilhas-art" aria-hidden="true"><span class="ph on" style="background-image:url('assets/capas/product-manager-1600.jpg?v=3')"></span><span class="ph"></span><div class="lbl"><b>Trilha <i id="trN">01</i></b><span id="trT">Entrar em produto</span></div></div>
     </div>
   </div>
 </section>

diff --git a/assets/css/home.css b/assets/css/home.css
@@ -104,7 +104,7 @@
 
 .t-form{grid-column:3/5;background:#fff;border:1px solid var(--line);flex-direction:row;align-items:stretch;padding:0}
 .t-form .txt{flex:1;padding:clamp(24px,2.6vw,36px);display:flex;flex-direction:column;justify-content:space-between;gap:24px}
-.t-form .pic{width:42%;background:url('../img/foto-mesa-cafe.jpg?v=2') 50% 40%/cover;border-radius:0 var(--r-xl) var(--r-xl) 0;position:relative}
+.t-form .pic{width:42%;background:url('../img/foto-mesa-cafe.jpg?v=4') 50% 40%/cover;border-radius:0 var(--r-xl) var(--r-xl) 0;position:relative}
 .t-form .pic .ic{--c:#fff;left:0;top:0}
 .t-form p{color:#4a4458}
 .t-form .more{color:var(--purple-royal)}
@@ -122,7 +122,7 @@
 .t-pos .seal{display:inline-flex;gap:10px;align-items:center;font-family:var(--display);font-weight:700;font-size:11.5px;letter-spacing:.1em;text-transform:uppercase;color:#fff;background:rgba(0,0,0,.45);backdrop-filter:blur(6px);border:1px solid rgba(255,255,255,.2);padding:8px 12px;border-radius:var(--r-pill);align-self:flex-start}
 
 .t-b2b{grid-column:1/5;background:#000;color:#fff;flex-direction:row;align-items:center;min-height:240px}
-.t-b2b .bg{background-image:linear-gradient(90deg,#000 44%,rgba(0,0,0,0) 66%),url('../img/foto-equipe.jpg?v=3');background-size:auto 100%,58% auto;background-repeat:no-repeat;background-position:0 0,right 30%}
+.t-b2b .bg{background-image:linear-gradient(90deg,#000 44%,rgba(0,0,0,0) 66%),url('../img/foto-equipe.jpg?v=4');background-size:auto 100%,58% auto;background-repeat:no-repeat;background-position:0 0,right 30%}
 .t-b2b .txt{max-width:560px}
 .t-b2b p{color:var(--gray-fog)}
 .t-b2b .num{margin-left:clamp(24px,4vw,64px);margin-right:auto;padding-left:clamp(24px,3vw,40px);border-left:1px solid rgba(255,255,255,.16);font-family:var(--display)}
@@ -267,7 +267,7 @@
   .t-form{flex-direction:column}
   .t-form .pic{width:100%;height:180px;border-radius:0 0 var(--r-xl) var(--r-xl);order:2}
   .t-b2b{flex-direction:column;align-items:flex-start}
-  .t-b2b .bg{background-image:linear-gradient(180deg,rgba(0,0,0,.6),#000 70%),url('../img/foto-equipe.jpg?v=3')}
+  .t-b2b .bg{background-image:linear-gradient(180deg,rgba(0,0,0,.6),#000 70%),url('../img/foto-equipe.jpg?v=4')}
   .t-b2b .num{margin-left:0;text-align:left}
   .quotes{grid-template-columns:1fr}
   .qslot{grid-column:auto}

diff --git a/assets/css/b2b.css b/assets/css/b2b.css
@@ -13,7 +13,7 @@
 .b-hero .lead{margin:24px 0 32px}
 .b-hero .btns{display:flex;gap:12px;flex-wrap:wrap}
 .b-hero .pad{padding-bottom:clamp(48px,6vw,88px)}
-.b-pic{position:relative;align-self:stretch;min-height:calc(520px * var(--s,1));border-radius:var(--r-xl) var(--r-xl) 0 0;background:url('../img/foto-equipe.jpg?v=3') 60% 30%/cover}
+.b-pic{position:relative;align-self:stretch;min-height:calc(520px * var(--s,1));border-radius:var(--r-xl) var(--r-xl) 0 0;background:url('../img/foto-equipe.jpg?v=4') 60% 30%/cover}
 .b-card{position:absolute;left:-40px;bottom:40px;background:#fff;border-radius:var(--r-card);box-shadow:var(--shadow-lg);padding:20px 24px;font-family:var(--display);min-width:220px}
 .b-card b{display:block;font-size:44px;font-weight:800;letter-spacing:-.04em;line-height:1;color:var(--purple-deep)}
 .b-card span{font-size:13.5px;color:var(--muted)}

diff --git a/blog.html b/blog.html
@@ -62,7 +62,7 @@
 <!-- 2 · DESTAQUES -->
 <section class="section" aria-label="Destaques">
   <div class="wrap feat">
-    <a class="post-big reveal" href="#"><div class="bg" style="background-image:url('assets/img/foto-equipe.jpg?v=3')"></div>
+    <a class="post-big reveal" href="#"><div class="bg" style="background-image:url('assets/img/foto-equipe.jpg?v=4')"></div>
       <span class="tag tag-yellow" style="align-self:flex-start">Eventos</span>
       <h2>Product Camp 2026: tudo sobre o maior evento de produto da América Latina</h2>
       <p>O encontro anual da comunidade de produto, em números: dois dias, seis palcos e mais de 3.000 pessoas.</p>

diff --git a/home.html b/home.html
@@ -17,7 +17,7 @@
 <link rel="stylesheet" href="assets/css/tokens.css?v=2">
 <link rel="stylesheet" href="assets/css/base.css?v=18">
 <link rel="stylesheet" href="assets/css/components.css?v=2">
-<link rel="stylesheet" href="assets/css/home.css?v=61">
+<link rel="stylesheet" href="assets/css/home.css?v=62">
 <script type="application/ld+json">
 {"@context":"https://schema.org","@graph":[
  {"@type":"EducationalOrganization","@id":"https://pm3.com.br/#org","name":"PM3","url":"https://pm3.com.br/","logo":"https://pm3.com.br/logo.svg",

diff --git a/para-empresas.html b/para-empresas.html
@@ -17,7 +17,7 @@
 <link rel="stylesheet" href="assets/css/tokens.css?v=2">
 <link rel="stylesheet" href="assets/css/base.css?v=18">
 <link rel="stylesheet" href="assets/css/components.css?v=2">
-<link rel="stylesheet" href="assets/css/b2b.css?v=6">
+<link rel="stylesheet" href="assets/css/b2b.css?v=7">
 <script type="application/ld+json">
 {"@context":"https://schema.org","@graph":[
  {"@type":"BreadcrumbList","itemListElement":[
